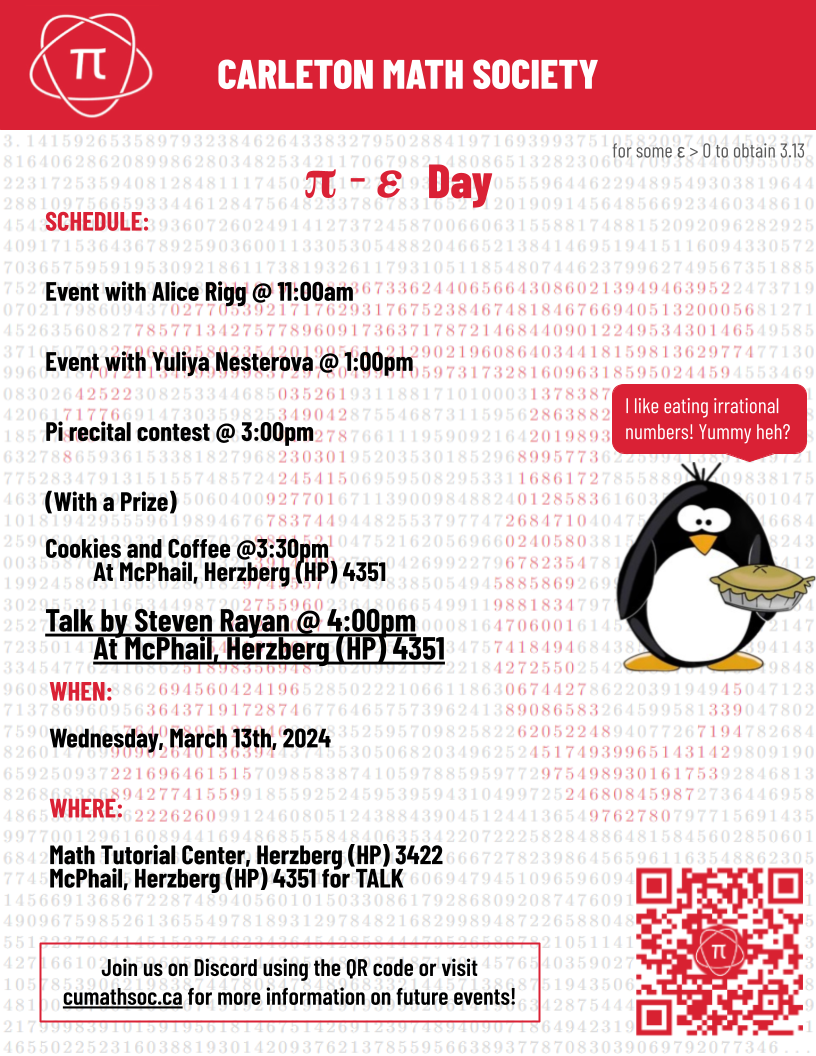
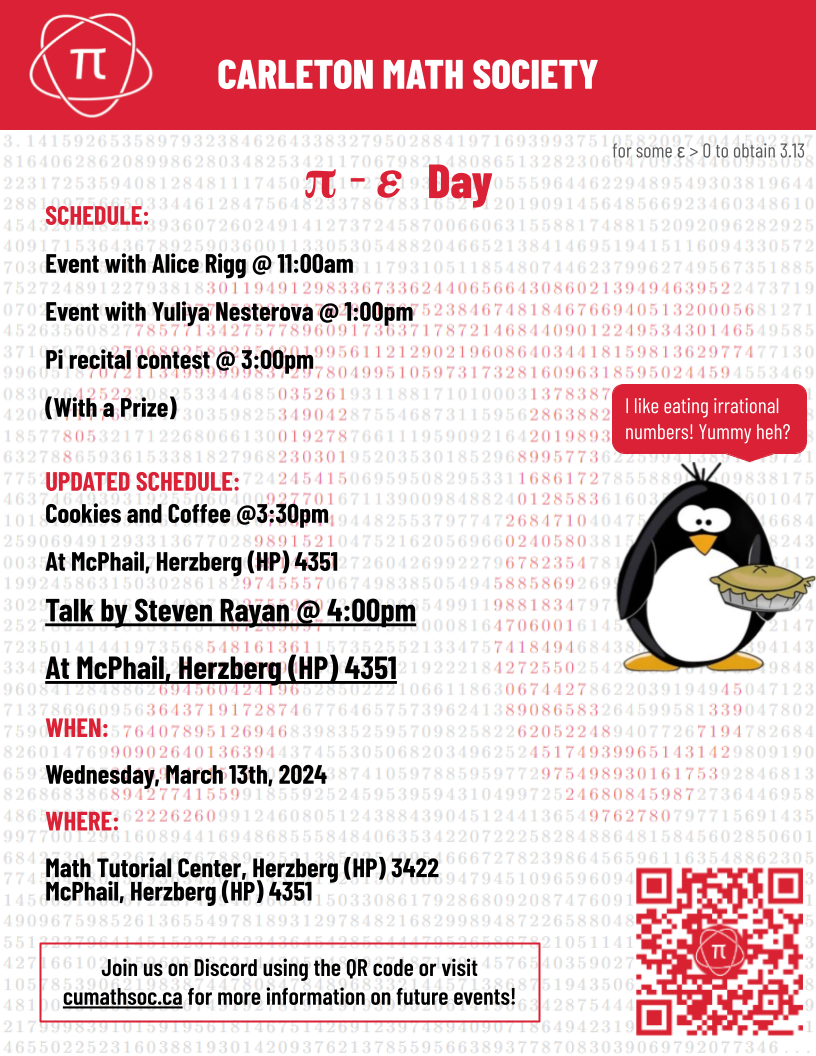
updated pi day

Changed region(s): [[0.0306, 0.1875, 0.5515, 0.875]]

diff --git a/data/archive-events.js b/data/archive-events.js
@@ -19,7 +19,7 @@ let events = [
   "title": "Pi Day",
   "date": "Wednesday, March 13th, 2024 @ 11:00am",
   "location": "Herzberg (HP) 3422",
-  "desc": "<p> 🐧 We are celebrating this year's Pi day on Wednesday March 13th, rather than the 14th due to scheduling. We have planned a series of events throughout the day including activities hosted by our alumnus Alice and Grad student Yuliya, as well as a pi recital contest, finishing the day with a talk by Dr. Brett Stevens! Come and bring your friends to the Math Tutorial Centre on Wednesday March 13th and enjoy fun math! 👀 (See full schedule on the poster). </p>",
+  "desc": "<p> 🐧 We are celebrating this year's Pi day on Wednesday March 13th, rather than the 14th due to scheduling. We have planned a series of events throughout the day including activities hosted by our alumnus Alice and Grad student Yuliya, as well as a pi recital contest, finishing the day with a talk by Dr. Steven Rayan! Come and bring your friends to the Math Tutorial Centre on Wednesday March 13th and enjoy fun math! 👀 (See full schedule on the poster). </p>",
   "img": "images/poster/pi-day.png",
   "calendar": {
       "google": "https://calendar.google.com/calendar/render?action=TEMPLATE&dates=20240310T150000Z%2F20240310T200000Z&details=&location=Herzberg%20%28HP%29%203422&text=Pi%20Day",
